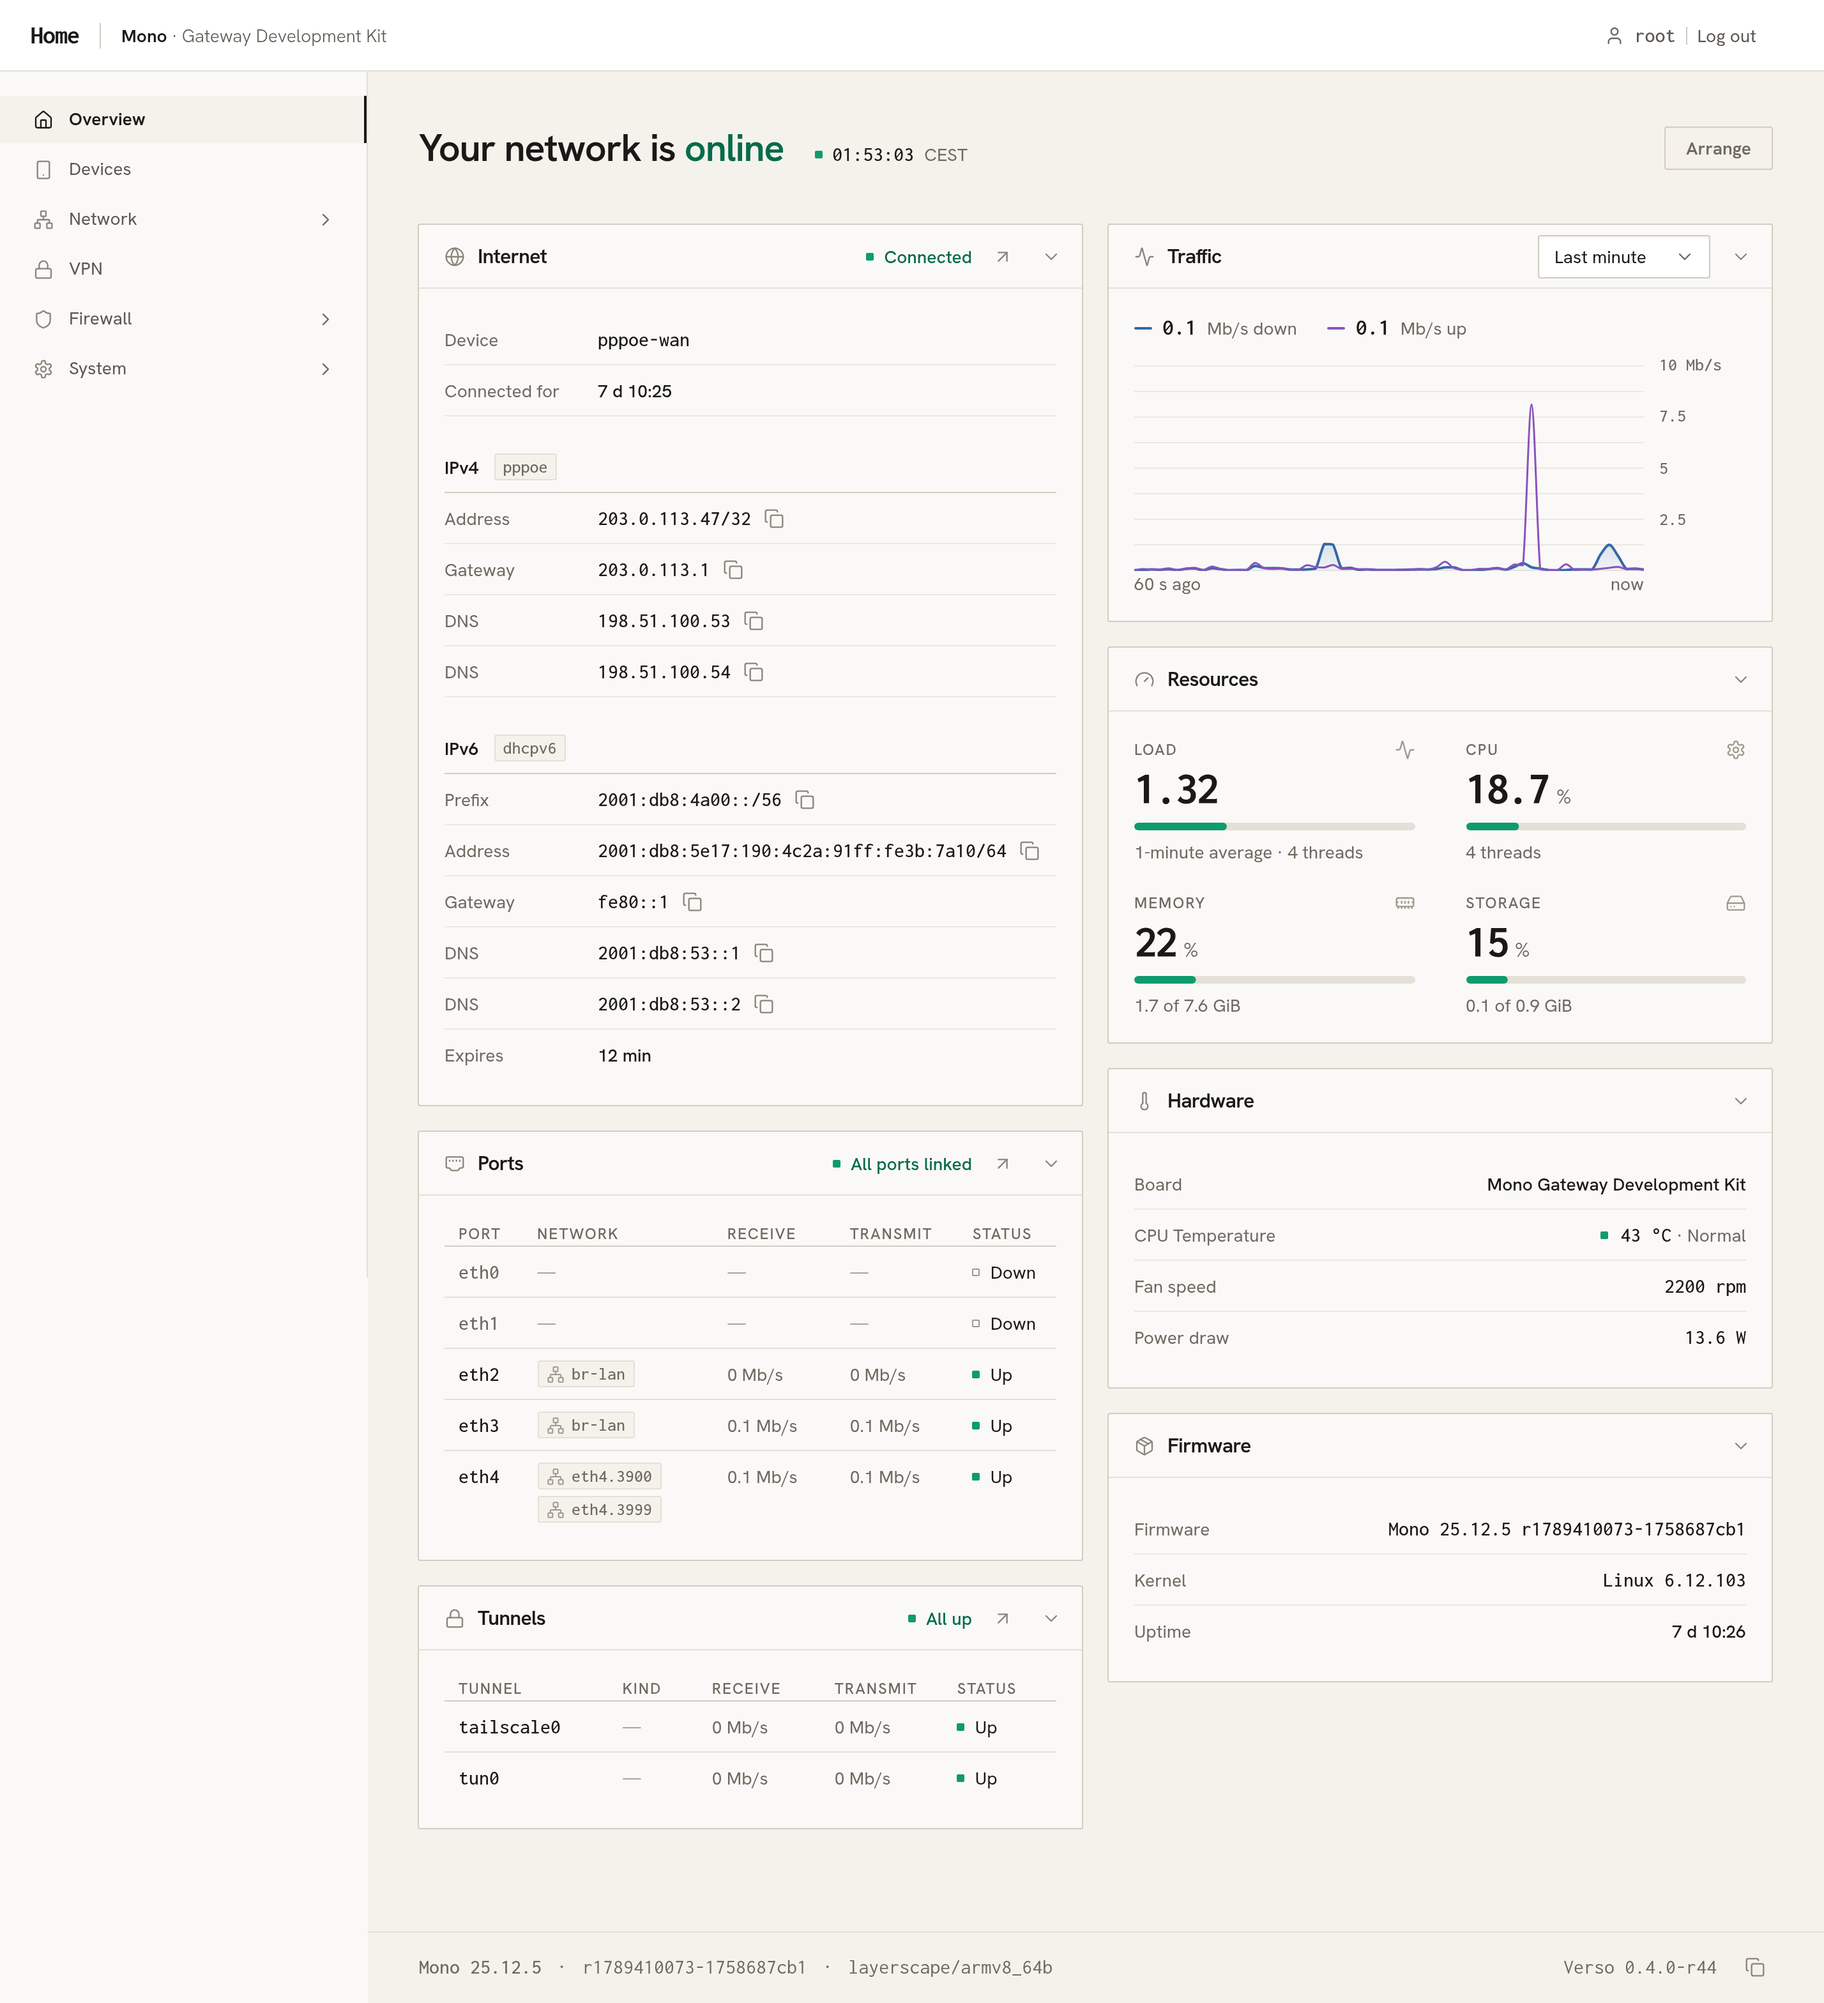
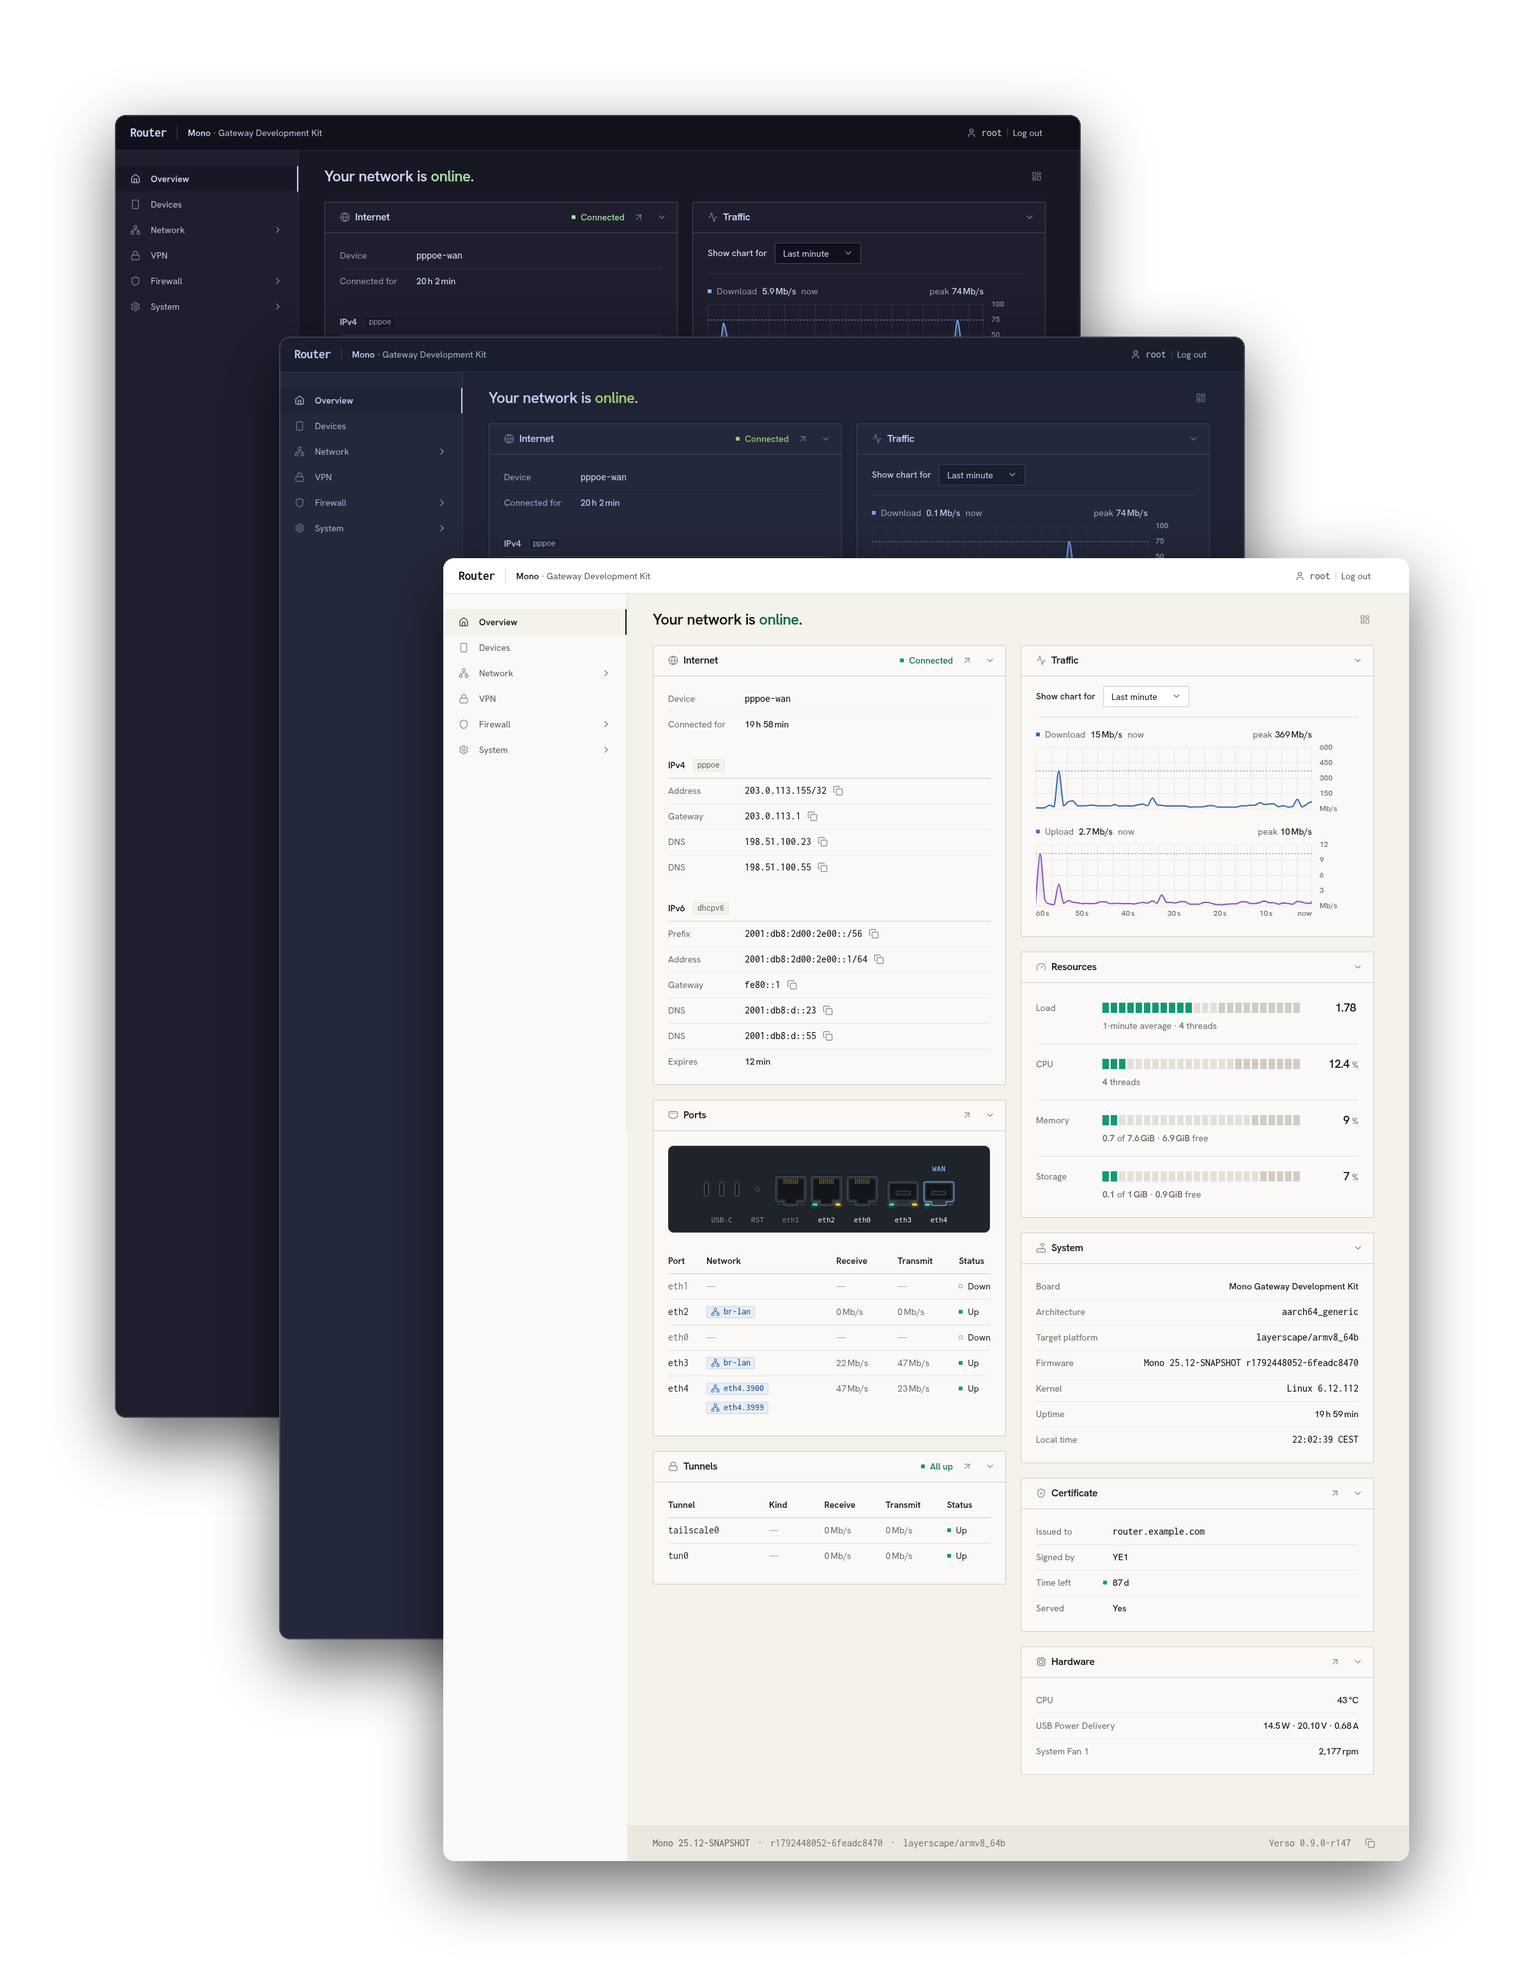
docs(readme): the README opens on the Overview in Sand, Tokyo Night Storm and Catppuccin Mocha stacked, because the picture should show today's Overview and that its look is a choice
Claude-Session: https://claude.ai/code/session_017VpGxJZYdThw4Nx1RNxWvY

diff --git a/README.md b/README.md
@@ -4,7 +4,7 @@ A modern web interface for your OpenWrt router, in place of LuCI.
 
 > **Verso is experimental.** Back up your router's configuration before you install it.
 
-<img src="docs/images/overview.png" alt="Verso's Overview: the router's internet connection, ports, tunnels, traffic, resources, hardware and firmware, each in a card">
+<img src="docs/images/overview.png" alt="Verso's Overview in three themes, Sand in front of Tokyo Night Storm and Catppuccin Mocha: the router's internet connection, ports, tunnels, traffic, resources, system, certificate and hardware, each in a card">
 
 ## Requirements
 
